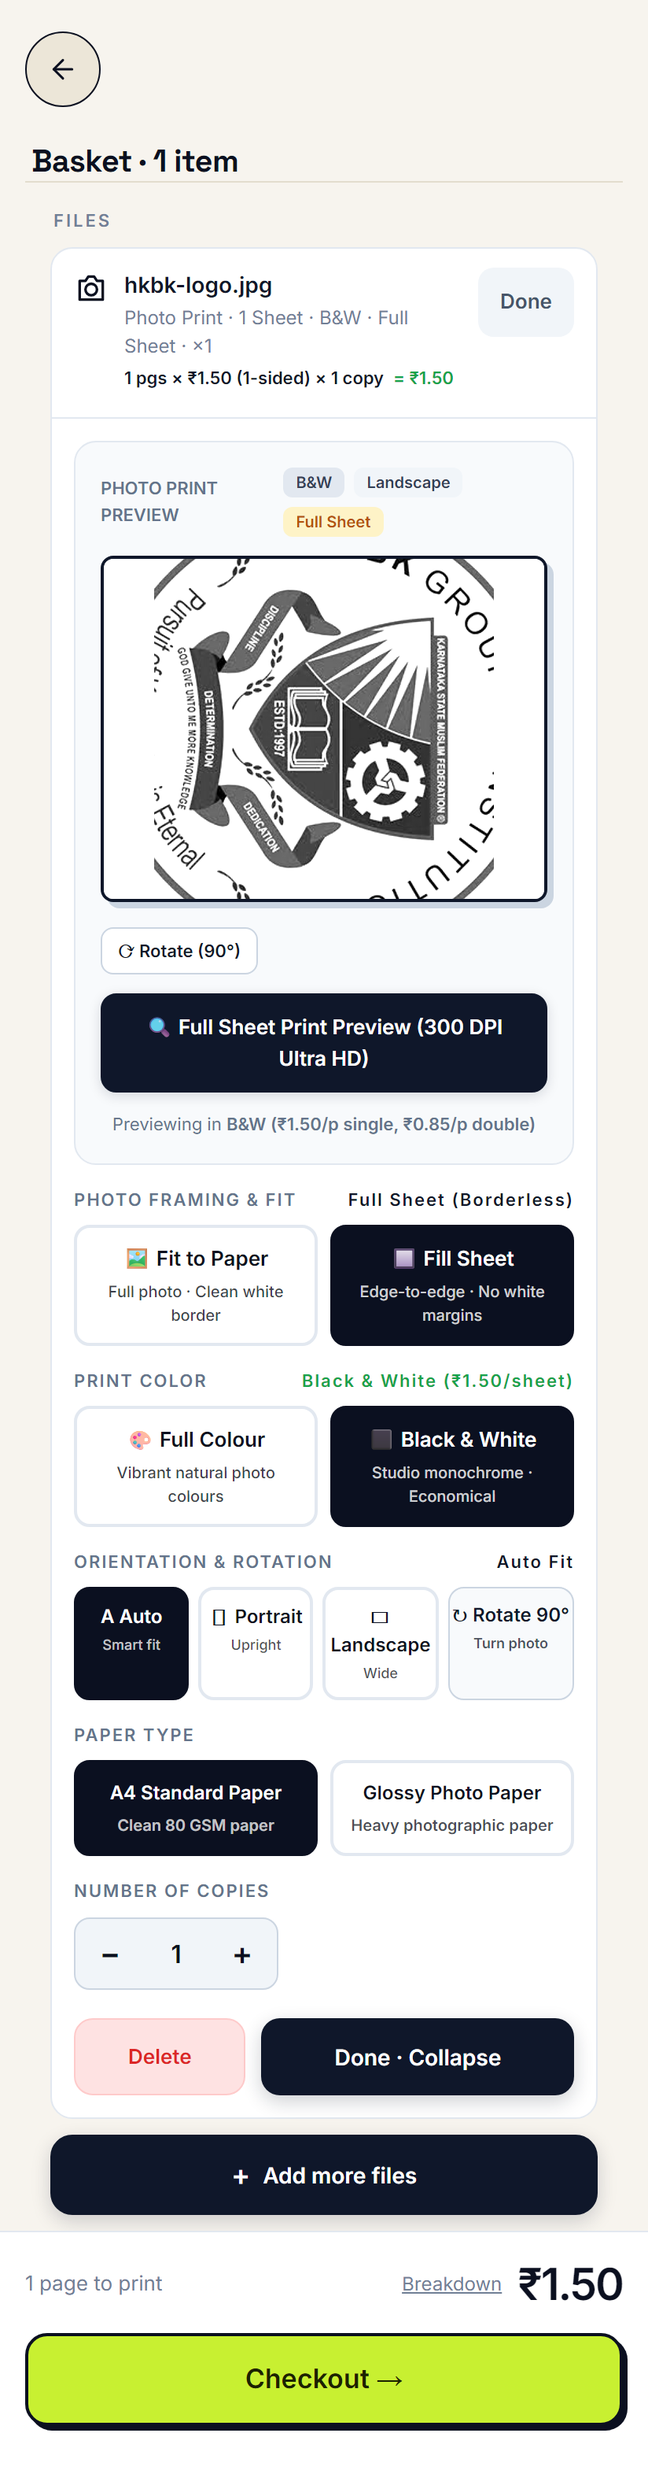
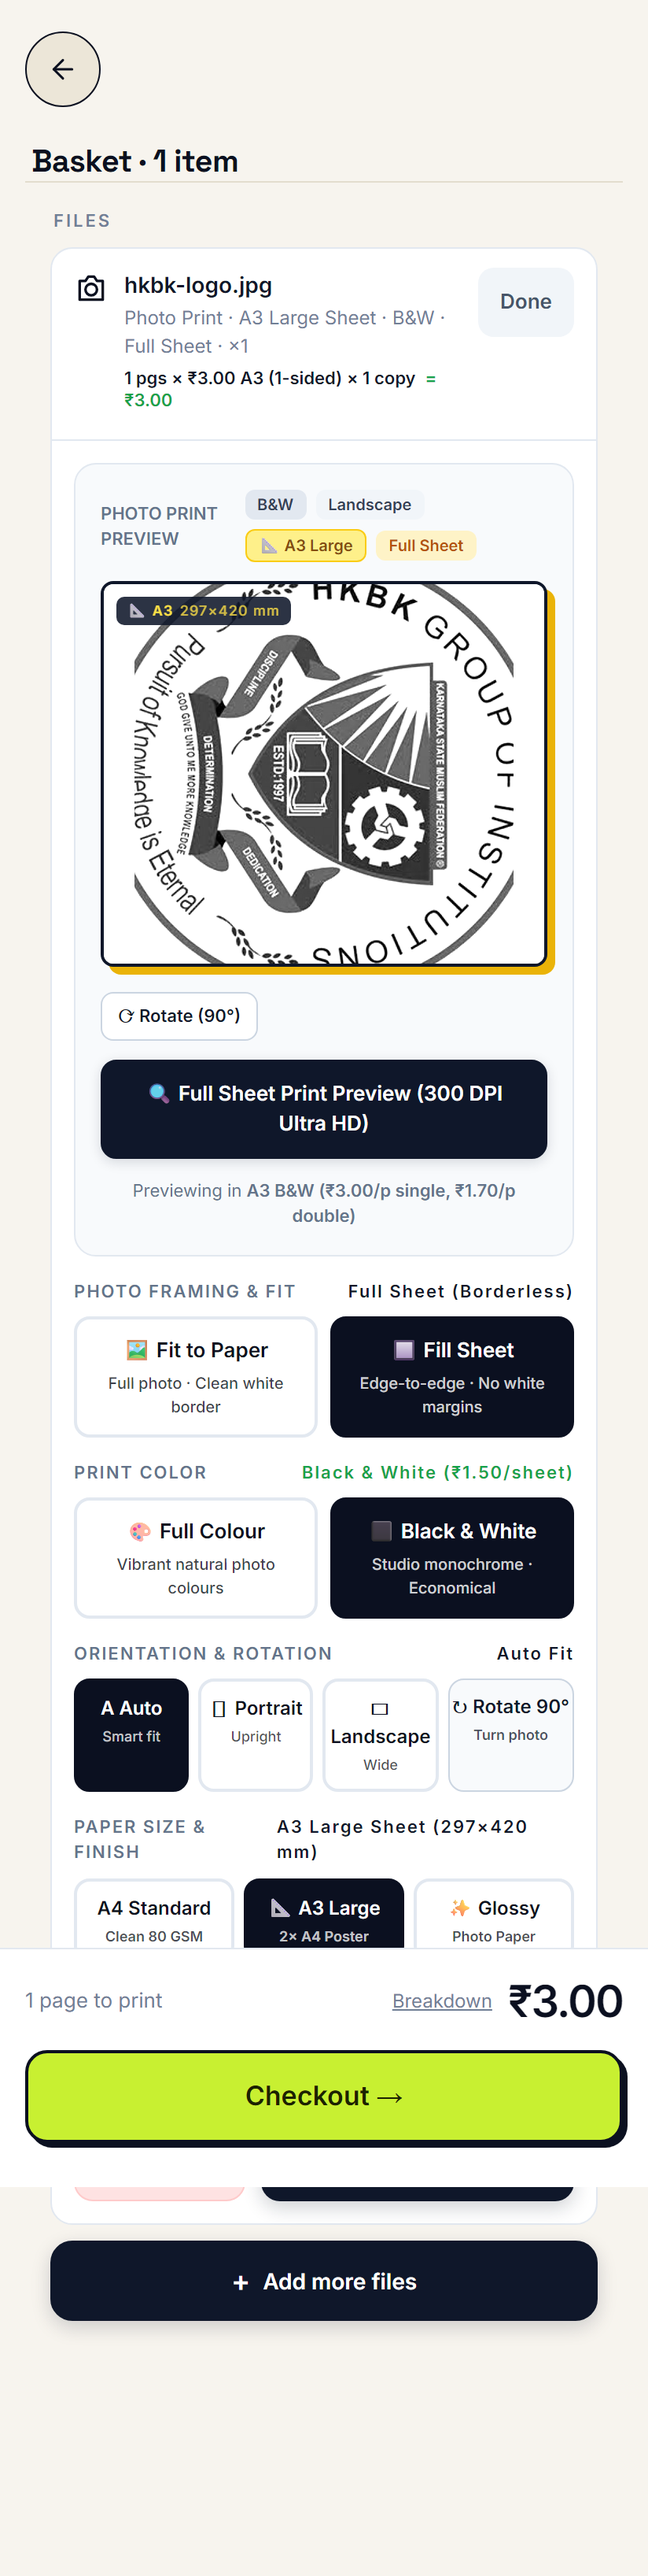
feat(basket): add A3 paper settings and real-time sheet adaptation

Changed region(s): [[0.0303, 0.1874, 0.9709, 0.9994], [0.0607, 0.0, 0.6978, 0.1562], [0.7585, 0.0937, 0.8495, 0.1249]]

diff --git a/PrintBK/student/src/features/basket/Basket.tsx b/PrintBK/student/src/features/basket/Basket.tsx
@@ -648,6 +648,19 @@ function DocumentPreview({ file, go }: { file: PrintFile; go?: (screen: Screen) 
           }}>
             {effectiveIsLandscape ? 'Landscape' : 'Portrait'}
           </span>
+          {s.paper === 'A3' && (
+            <span style={{
+              background: '#fef08a',
+              color: '#854d0e',
+              border: '1px solid #facc15',
+              padding: '2px 8px',
+              borderRadius: 6,
+              fontSize: 10,
+              fontWeight: 800
+            }}>
+              📐 A3 Large
+            </span>
+          )}
           {isImage && (
             <span style={{
               background: (s.imageFit === 'fill' || (s as any).fit === 'fill') ? '#fef3c7' : '#ecfdf5',
@@ -747,13 +760,15 @@ function DocumentPreview({ file, go }: { file: PrintFile; go?: (screen: Screen) 
       <div style={{
         position: 'relative',
         width: '100%',
-        maxWidth: isSheetWide ? 330 : 245,
+        maxWidth: isSheetWide ? (s.paper === 'A3' ? 360 : 330) : (s.paper === 'A3' ? 275 : 245),
         aspectRatio: isSheetWide ? '1.414 / 1' : '1 / 1.414',
-        minHeight: isSheetWide ? 220 : 310,
+        minHeight: isSheetWide ? (s.paper === 'A3' ? 245 : 220) : (s.paper === 'A3' ? 350 : 310),
         background: '#fff',
         borderRadius: 8,
-        border: '2px solid #0f172a',
-        boxShadow: isDouble ? '4px 4px 0 #cbd5e1, 8px 8px 0 #94a3b8' : '4px 4px 0 #cbd5e1',
+        border: s.paper === 'A3' ? '2.5px solid #0f172a' : '2px solid #0f172a',
+        boxShadow: isDouble
+          ? (s.paper === 'A3' ? '5px 5px 0 #ca8a04, 9px 9px 0 #0f172a' : '4px 4px 0 #cbd5e1, 8px 8px 0 #94a3b8')
+          : (s.paper === 'A3' ? '5px 5px 0 #eab308' : '4px 4px 0 #cbd5e1'),
         overflow: 'hidden',
         display: 'flex',
         alignItems: 'center',
@@ -761,6 +776,29 @@ function DocumentPreview({ file, go }: { file: PrintFile; go?: (screen: Screen) 
         transition: 'all 0.25s ease',
         boxSizing: 'border-box'
       }}>
+        {/* A3 Large Sheet Watermark Badge */}
+        {s.paper === 'A3' && (
+          <div style={{
+            position: 'absolute',
+            top: 8,
+            left: 8,
+            background: 'rgba(15, 23, 42, 0.88)',
+            color: '#fde047',
+            padding: '2px 7px',
+            borderRadius: 5,
+            fontSize: 9,
+            fontWeight: 800,
+            letterSpacing: 0.6,
+            zIndex: 15,
+            pointerEvents: 'none',
+            display: 'flex',
+            alignItems: 'center',
+            gap: 4
+          }}>
+            <span>📐 A3</span>
+            <span style={{ opacity: 0.8, fontWeight: 500 }}>297×420 mm</span>
+          </div>
+        )}
         {/* ── Imposition Rendering based on Layout Mode ── */}
         {selectedLayout === 'handout' ? (
           <div style={{
@@ -1211,10 +1249,17 @@ function DocumentPreview({ file, go }: { file: PrintFile; go?: (screen: Screen) 
       {/* Live mode info text */}
       <div style={{ fontSize: 11, color: '#64748b', textAlign: 'center' }}>
         Previewing in <b>{
-          s.colorMode === 'bw' ? 'B&W (₹1.50/p single, ₹0.85/p double)' :
-          s.colorMode === 'color' ? 'Full Colour (₹8.00/p)' :
-          isCustom ? `Custom Plan (${customColorPages.length} Colour @ ₹8.00, ${(file.pages || 1) - customColorPages.length} B&W)` :
-          'Auto Detection'
+          s.paper === 'A3' ? (
+            s.colorMode === 'bw' ? 'A3 B&W (₹3.00/p single, ₹1.70/p double)' :
+            s.colorMode === 'color' ? 'A3 Full Colour (₹16.00/p)' :
+            isCustom ? `A3 Custom Plan (${customColorPages.length} Colour @ ₹16.00, ${(file.pages || 1) - customColorPages.length} B&W @ ₹3.00)` :
+            'A3 Auto Detection'
+          ) : (
+            s.colorMode === 'bw' ? 'B&W (₹1.50/p single, ₹0.85/p double)' :
+            s.colorMode === 'color' ? 'Full Colour (₹8.00/p)' :
+            isCustom ? `Custom Plan (${customColorPages.length} Colour @ ₹8.00, ${(file.pages || 1) - customColorPages.length} B&W)` :
+            'Auto Detection'
+          )
         }</b>
       </div>
     </div>
@@ -1327,15 +1372,15 @@ function FileCard({
           <div style={{ fontSize: 12, color: '#718096', marginTop: 2 }}>
             {isImage ? (
               <span>
-                Photo Print · 1 Sheet · {s.colorMode === 'bw' ? 'B&W' : 'Colour'} · {(s.imageFit === 'fill' || (s as any).fit === 'fill') ? 'Full Sheet' : 'Fitted to Paper'} · ×{s.copies}
+                Photo Print · {s.paper === 'A3' ? 'A3 Large Sheet' : '1 Sheet'} · {s.colorMode === 'bw' ? 'B&W' : 'Colour'} · {(s.imageFit === 'fill' || (s as any).fit === 'fill') ? 'Full Sheet' : 'Fitted to Paper'} · ×{s.copies}
               </span>
             ) : isSinglePageDoc ? (
               <span>
-                Single Page Document · 1 Page · {s.colorMode === 'bw' ? 'B&W' : 'Colour'} · ×{s.copies}
+                Single Page Document · {s.paper === 'A3' ? 'A3 Large Sheet' : '1 Page'} · {s.colorMode === 'bw' ? 'B&W' : 'Colour'} · ×{s.copies}
               </span>
             ) : (
               <span>
-                {file.pages} pages · {
+                {file.pages} pages · {s.paper === 'A3' ? 'A3 Paper · ' : ''}{
                   s.colorMode === 'bw' ? 'B&W' :
                   s.colorMode === 'color' ? 'Colour' :
                   s.colorMode === 'custom' ? `Custom (${(s.colorPlan?.colorPages || []).length} col)` :
@@ -1553,33 +1598,62 @@ function FileCard({
                 </div>
               </div>
 
-              {/* Paper Type */}
+              {/* Paper Size & Finish */}
               <div>
-                <div style={{ fontSize: 11, fontWeight: 700, color: '#64748b', letterSpacing: 1, marginBottom: 8 }}>PAPER TYPE</div>
-                <div style={{ display: 'grid', gridTemplateColumns: '1fr 1fr', gap: 8 }}>
+                <div style={{ fontSize: 11, fontWeight: 700, color: '#64748b', letterSpacing: 1, marginBottom: 8, display: 'flex', justifyContent: 'space-between' }}>
+                  <span>PAPER SIZE &amp; FINISH</span>
+                  <span style={{ color: '#0f172a', fontWeight: 800 }}>
+                    {s.paper === 'A3' ? 'A3 Large Sheet (297×420 mm)' : s.paper === 'Legal' ? 'Glossy Photo Paper' : 'A4 Standard Paper'}
+                  </span>
+                </div>
+                <div style={{ display: 'grid', gridTemplateColumns: '1fr 1fr 1fr', gap: 6 }}>
                   <button
                     type="button"
                     onClick={() => upd({ paper: 'A4' })}
                     style={{
                       ...btn,
-                      padding: '9px 6px',
+                      padding: '8px 4px',
+                      display: 'flex',
+                      flexDirection: 'column',
+                      alignItems: 'center',
+                      gap: 2,
                       ...sel((s.paper ?? 'A4') === 'A4')
                     }}
                   >
-                    <span style={{ fontSize: 12, fontWeight: 700 }}>A4 Standard Paper</span>
-                    <br /><span style={{ fontSize: 10, opacity: 0.75 }}>Clean 80 GSM paper</span>
+                    <span style={{ fontSize: 12, fontWeight: 700 }}>A4 Standard</span>
+                    <span style={{ fontSize: 9, opacity: 0.75 }}>Clean 80 GSM</span>
+                  </button>
+                  <button
+                    type="button"
+                    onClick={() => upd({ paper: 'A3' })}
+                    style={{
+                      ...btn,
+                      padding: '8px 4px',
+                      display: 'flex',
+                      flexDirection: 'column',
+                      alignItems: 'center',
+                      gap: 2,
+                      ...sel(s.paper === 'A3')
+                    }}
+                  >
+                    <span style={{ fontSize: 12, fontWeight: 700 }}>📐 A3 Large</span>
+                    <span style={{ fontSize: 9, opacity: 0.75 }}>2× A4 Poster</span>
                   </button>
                   <button
                     type="button"
                     onClick={() => upd({ paper: 'Legal' } as any)}
                     style={{
                       ...btn,
-                      padding: '9px 6px',
+                      padding: '8px 4px',
+                      display: 'flex',
+                      flexDirection: 'column',
+                      alignItems: 'center',
+                      gap: 2,
                       ...sel(s.paper === 'Legal')
                     }}
                   >
-                    <span style={{ fontSize: 12, fontWeight: 700 }}>Glossy Photo Paper</span>
-                    <br /><span style={{ fontSize: 10, opacity: 0.75 }}>Heavy photographic paper</span>
+                    <span style={{ fontSize: 12, fontWeight: 700 }}>✨ Glossy</span>
+                    <span style={{ fontSize: 9, opacity: 0.75 }}>Photo Paper</span>
                   </button>
                 </div>
               </div>
@@ -1681,12 +1755,18 @@ function FileCard({
 
               {/* Paper Size */}
               <div>
-                <div style={{ fontSize: 11, fontWeight: 700, color: '#64748b', letterSpacing: 1, marginBottom: 8 }}>PAPER SIZE</div>
+                <div style={{ fontSize: 11, fontWeight: 700, color: '#64748b', letterSpacing: 1, marginBottom: 8, display: 'flex', justifyContent: 'space-between' }}>
+                  <span>PAPER SIZE</span>
+                  <span style={{ color: '#0f172a', fontWeight: 800 }}>
+                    {s.paper === 'A3' ? 'A3 (Large Format · 2× A4)' : s.paper === 'Legal' ? 'Legal (Long Sheet)' : 'A4 Standard'}
+                  </span>
+                </div>
                 <div style={{ display: 'flex', gap: 6 }}>
                   {(['A4', 'A3', 'Legal'] as const).map(p => (
                     <button key={p} onClick={() => upd({ paper: p })}
-                      style={{ ...btn, flex: 1, padding: '9px 4px', ...sel((s.paper ?? 'A4') === p) }}>
-                      <b>{p}</b><br /><span style={{ fontSize: 10, opacity: 0.75 }}>{p === 'A4' ? 'Standard' : p === 'A3' ? '2× A4' : 'Long'}</span>
+                      style={{ ...btn, flex: 1, padding: '9px 4px', display: 'flex', flexDirection: 'column', alignItems: 'center', gap: 2, ...sel((s.paper ?? 'A4') === p) }}>
+                      <span style={{ fontSize: 13, fontWeight: 700 }}>{p === 'A3' ? '📐 A3' : p}</span>
+                      <span style={{ fontSize: 9, opacity: 0.75 }}>{p === 'A4' ? 'Standard' : p === 'A3' ? '2× A4 (Large)' : 'Long'}</span>
                     </button>
                   ))}
                 </div>
@@ -1854,6 +1934,25 @@ function FileCard({
                     <span style={{ fontSize: 12, fontWeight: 700 }}>↻ Rotate 90°</span>
                     <span style={{ fontSize: 9, opacity: 0.75 }}>Turn page</span>
                   </button>
+                </div>
+              </div>
+
+              {/* Paper Size */}
+              <div>
+                <div style={{ fontSize: 11, fontWeight: 700, color: '#64748b', letterSpacing: 1.2, marginBottom: 8, display: 'flex', justifyContent: 'space-between' }}>
+                  <span>PAPER SIZE</span>
+                  <span style={{ color: '#0f172a', fontWeight: 800 }}>
+                    {s.paper === 'A3' ? 'A3 (Large Format · 2× A4)' : s.paper === 'Legal' ? 'Legal (Long Sheet)' : 'A4 Standard'}
+                  </span>
+                </div>
+                <div style={{ display: 'flex', gap: 6 }}>
+                  {(['A4', 'A3', 'Legal'] as const).map(p => (
+                    <button key={p} onClick={() => upd({ paper: p })}
+                      style={{ ...btn, flex: 1, padding: '9px 4px', display: 'flex', flexDirection: 'column', alignItems: 'center', gap: 2, ...sel((s.paper ?? 'A4') === p) }}>
+                      <span style={{ fontSize: 13, fontWeight: 700 }}>{p === 'A3' ? '📐 A3' : p}</span>
+                      <span style={{ fontSize: 9, opacity: 0.75 }}>{p === 'A4' ? 'Standard' : p === 'A3' ? '2× A4 (Large)' : 'Long'}</span>
+                    </button>
+                  ))}
                 </div>
               </div>
 

diff --git a/PrintBK/functions/api/shared/pricing.js b/PrintBK/functions/api/shared/pricing.js
@@ -103,19 +103,20 @@ function priceOrder(basket, config = defaultConfig_1.defaultShopConfig, now = ne
         }
         const fileTotal = (bwPages * pricePerPageBW + colorPages * pricePerPageColor) * copies;
         const roundedTotal = Math.round(fileTotal * 100) / 100;
+        const paperLabel = paper === 'A3' ? ' A3' : paper === 'Legal' ? ' Legal' : '';
         let formulaStr = '';
         if (colorPages > 0 && bwPages > 0) {
-            formulaStr = `${colorPages * copies} colour pgs × ₹${pricePerPageColor.toFixed(2)} + ${bwPages * copies} B&W pgs × ₹${pricePerPageBW.toFixed(2)}`;
+            formulaStr = `${colorPages * copies} colour pgs × ₹${pricePerPageColor.toFixed(2)}${paperLabel} + ${bwPages * copies} B&W pgs × ₹${pricePerPageBW.toFixed(2)}${paperLabel}`;
         }
         else if (colorPages > 0) {
-            formulaStr = `${colorPages * copies} pgs × ₹${pricePerPageColor.toFixed(2)} (Colour) × ${copies} cop${copies > 1 ? 'ies' : 'y'}`;
+            formulaStr = `${colorPages * copies} pgs × ₹${pricePerPageColor.toFixed(2)}${paperLabel} (Colour) × ${copies} cop${copies > 1 ? 'ies' : 'y'}`;
         }
         else {
-            formulaStr = `${bwPages * copies} pgs × ₹${pricePerPageBW.toFixed(2)} (${sided === 'double' ? '2-sided' : '1-sided'}) × ${copies} cop${copies > 1 ? 'ies' : 'y'}`;
+            formulaStr = `${bwPages * copies} pgs × ₹${pricePerPageBW.toFixed(2)}${paperLabel} (${sided === 'double' ? '2-sided' : '1-sided'}) × ${copies} cop${copies > 1 ? 'ies' : 'y'}`;
         }
         const detailStr = (colorPages > 0 && bwPages > 0)
-            ? `${physicalPages} pages (${colorPages * copies} colour, ${bwPages * copies} B&W) · ${sided === 'double' ? 'Double-sided' : 'Single-sided'}${nUp > 1 ? ` · ${nUp}-up` : ''}`
-            : `${physicalPages} pages · ${colorPages > 0 ? 'Colour' : 'B&W'} · ${sided === 'double' ? 'Double-sided' : 'Single-sided'}${nUp > 1 ? ` · ${nUp}-up` : ''}`;
+            ? `${physicalPages} pages (${colorPages * copies} colour, ${bwPages * copies} B&W)${paperLabel ? ` · ${paper}` : ''} · ${sided === 'double' ? 'Double-sided' : 'Single-sided'}${nUp > 1 ? ` · ${nUp}-up` : ''}`
+            : `${physicalPages} pages${paperLabel ? ` · ${paper}` : ''} · ${colorPages > 0 ? 'Colour' : 'B&W'} · ${sided === 'double' ? 'Double-sided' : 'Single-sided'}${nUp > 1 ? ` · ${nUp}-up` : ''}`;
         lines.push({
             id: file.id,
             name: file.name,
@@ -127,7 +128,7 @@ function priceOrder(basket, config = defaultConfig_1.defaultShopConfig, now = ne
         });
         subtotal += roundedTotal;
         if (sided === 'single' && !s.booklet && physicalPages > 1) {
-            const duplexTotal = (bwPages * duplexRate + colorPages * colourRate) * copies;
+            const duplexTotal = (bwPages * (duplexRate * paperMult) + colorPages * (colourRate * paperMult)) * copies;
             const savings = roundedTotal - (Math.round(duplexTotal * 100) / 100);
             if (savings > potentialSavings) {
                 potentialSavings = savings;

diff --git a/PrintBK/packages/shared/src/pricing.ts b/PrintBK/packages/shared/src/pricing.ts
@@ -130,18 +130,19 @@ export function priceOrder(basket: Basket, config: ShopConfig = defaultShopConfi
     const fileTotal = (bwPages * pricePerPageBW + colorPages * pricePerPageColor) * copies;
     const roundedTotal = Math.round(fileTotal * 100) / 100;
 
+    const paperLabel = paper === 'A3' ? ' A3' : paper === 'Legal' ? ' Legal' : '';
     let formulaStr = '';
     if (colorPages > 0 && bwPages > 0) {
-      formulaStr = `${colorPages * copies} colour pgs × ₹${pricePerPageColor.toFixed(2)} + ${bwPages * copies} B&W pgs × ₹${pricePerPageBW.toFixed(2)}`;
+      formulaStr = `${colorPages * copies} colour pgs × ₹${pricePerPageColor.toFixed(2)}${paperLabel} + ${bwPages * copies} B&W pgs × ₹${pricePerPageBW.toFixed(2)}${paperLabel}`;
     } else if (colorPages > 0) {
-      formulaStr = `${colorPages * copies} pgs × ₹${pricePerPageColor.toFixed(2)} (Colour) × ${copies} cop${copies > 1 ? 'ies' : 'y'}`;
+      formulaStr = `${colorPages * copies} pgs × ₹${pricePerPageColor.toFixed(2)}${paperLabel} (Colour) × ${copies} cop${copies > 1 ? 'ies' : 'y'}`;
     } else {
-      formulaStr = `${bwPages * copies} pgs × ₹${pricePerPageBW.toFixed(2)} (${sided === 'double' ? '2-sided' : '1-sided'}) × ${copies} cop${copies > 1 ? 'ies' : 'y'}`;
+      formulaStr = `${bwPages * copies} pgs × ₹${pricePerPageBW.toFixed(2)}${paperLabel} (${sided === 'double' ? '2-sided' : '1-sided'}) × ${copies} cop${copies > 1 ? 'ies' : 'y'}`;
     }
 
     const detailStr = (colorPages > 0 && bwPages > 0)
-      ? `${physicalPages} pages (${colorPages * copies} colour, ${bwPages * copies} B&W) · ${sided === 'double' ? 'Double-sided' : 'Single-sided'}${nUp > 1 ? ` · ${nUp}-up` : ''}`
-      : `${physicalPages} pages · ${colorPages > 0 ? 'Colour' : 'B&W'} · ${sided === 'double' ? 'Double-sided' : 'Single-sided'}${nUp > 1 ? ` · ${nUp}-up` : ''}`;
+      ? `${physicalPages} pages (${colorPages * copies} colour, ${bwPages * copies} B&W)${paperLabel ? ` · ${paper}` : ''} · ${sided === 'double' ? 'Double-sided' : 'Single-sided'}${nUp > 1 ? ` · ${nUp}-up` : ''}`
+      : `${physicalPages} pages${paperLabel ? ` · ${paper}` : ''} · ${colorPages > 0 ? 'Colour' : 'B&W'} · ${sided === 'double' ? 'Double-sided' : 'Single-sided'}${nUp > 1 ? ` · ${nUp}-up` : ''}`;
 
     lines.push({
       id: file.id,
@@ -155,7 +156,7 @@ export function priceOrder(basket: Basket, config: ShopConfig = defaultShopConfi
     subtotal += roundedTotal;
 
     if (sided === 'single' && !s.booklet && physicalPages > 1) {
-      const duplexTotal = (bwPages * duplexRate + colorPages * colourRate) * copies;
+      const duplexTotal = (bwPages * (duplexRate * paperMult) + colorPages * (colourRate * paperMult)) * copies;
       const savings = roundedTotal - (Math.round(duplexTotal * 100) / 100);
       if (savings > potentialSavings) {
         potentialSavings = savings;
